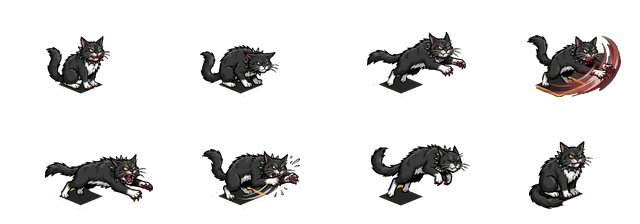
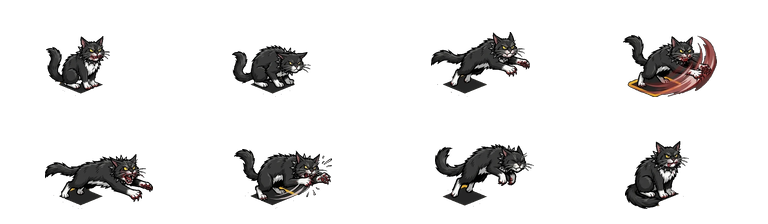
Rosette action sprites; atlas cells widened
Rosette now draws from her sheet (shot, recoil, bolt pull/push, target lock, aim) and ranged cats
face their target. extract_sheet.gd: wider cells for the muzzle flash, label bands widened so
"(PULL)"/"(PUSH)" text is dropped, perch detection limited to the bottom of the frame. Adora's
sheet saved in art_src for later. The lane-coverage Macho test now uses a fixed seed.

diff --git a/CLAUDE.md b/CLAUDE.md
@@ -11,7 +11,7 @@ Drop balls through a peg board with multiplier gates (X2/X3/X5) into a cup, and 
 - Cats are placed on a grid, not freely. Tile types matter: flat, raised (ranged cats +range, any cat takes +50% damage), hole (any cat takes -50% damage, ranged cats lose range). The layout is `TILE_TYPES` in `battle.gd`.
 - Coins are the single currency. Cats, cat levels and board upgrades all cost coins. All upgrading happens on the map (story) screen, in the style of the owner's reference games (a chapter path with the next node highlighted, upgrade cards below, one big play button); there is no separate shop panel.
 - Art style: edgy cartoon. Thick black outlines, flat fills, grungy texture, spiked collars, grumpy faces, amber eyes. Palette: crimson background `#7E1236`, near-black `#0B0B0E` / `#16161C`, amber `#F2A81D` for buttons and eyes, pink-red `#E0285E` for pegs and highlights. Reference art: the Maine Coon (Macho) and Bengal (Rosette) illustrations in `art/` come from the owner's own AI-generated reference images.
-- Animation is procedural for now (`_draw_cat_anim` in `battle.gd`): bob, lean, dust and speed lines while running; lunge, pop and a slash arc on attack. When real sprite sheets arrive, replace the card drawing with an AnimatedSprite2D-style frame lookup keyed on the same state (`moving`, `atk_t`).
+- Macho and Rosette use the owner's AI-generated 8-frame action sheets (`art_src/*.webp`, kept outside Godot's importer by `.gdignore`). `tools/extract_sheet.gd -- <macho|rosette>` cuts a sheet into an aligned atlas `games/catdrop/art/<cat>_anim.png` (grey background and perch tile removed; ANCHOR_OVERRIDES in the tool fixes frames where effects hide the perch). `battle.gd` picks frames from the cat's state (`_sprite_frame`: moving, `atk_t`, `n_atk`) and flips by `face`. Cats with no atlas fall back to the procedural portrait-card animation (`_draw_cat_anim`). Adora's sheet (`art_src/adora_sheet.webp`, a different layout) is saved but not built yet.
 - Melee cats (Macho) have no leash (owner decision 2026-10-22): they run to the most advanced mouse anywhere on the field, in any lane, stop 36px from it, hold it in place and fight it (`_move_melee`, `held_by` in `battle.gd`), then return to their tile when no mouse is left. Mice not held still queue and chew the front cat on a tile. Tile bonuses only apply while a cat stands on its tile.
 - UI direction (owner, 2026-10-22): the first look was "bland and boring". Aim for chunky, outlined, juicy: thick ink outlines, heavy text, raised buttons, particles, popups, screen shake. Art plan is hybrid: UI chrome is drawn in code now; real cat and mouse sprites will be supplied later and dropped in.
 - Two cats exist so far: Macho (Maine Coon, melee, tank) and Rosette (Bengal, ranged sniper). More cats are wanted.
